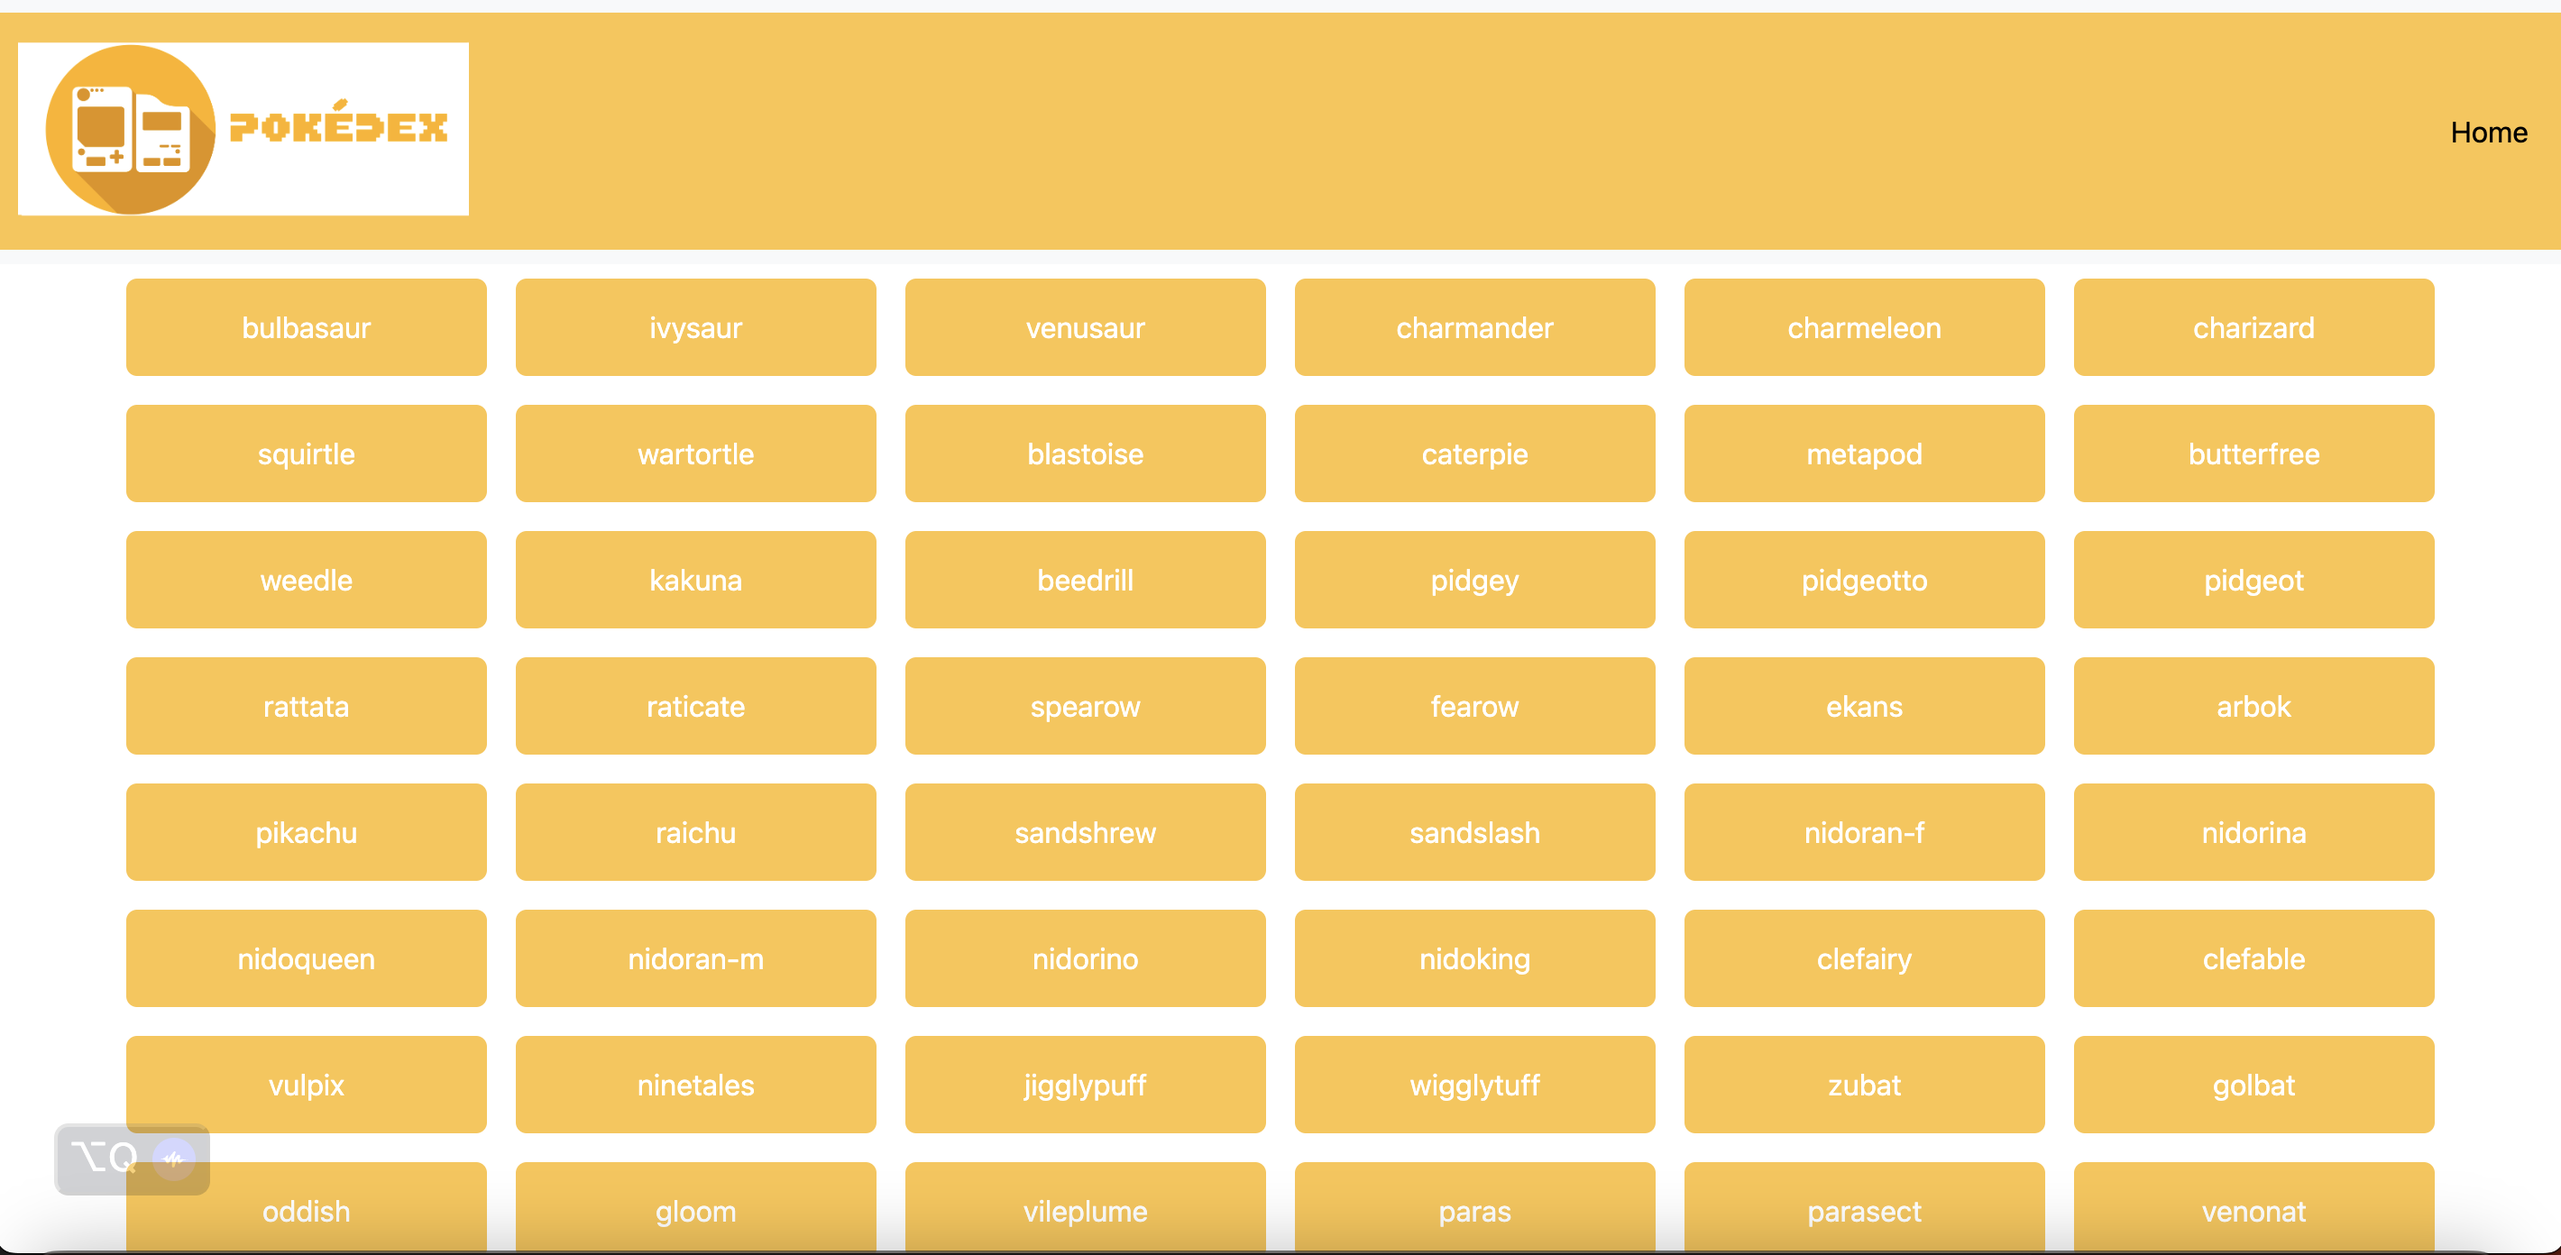
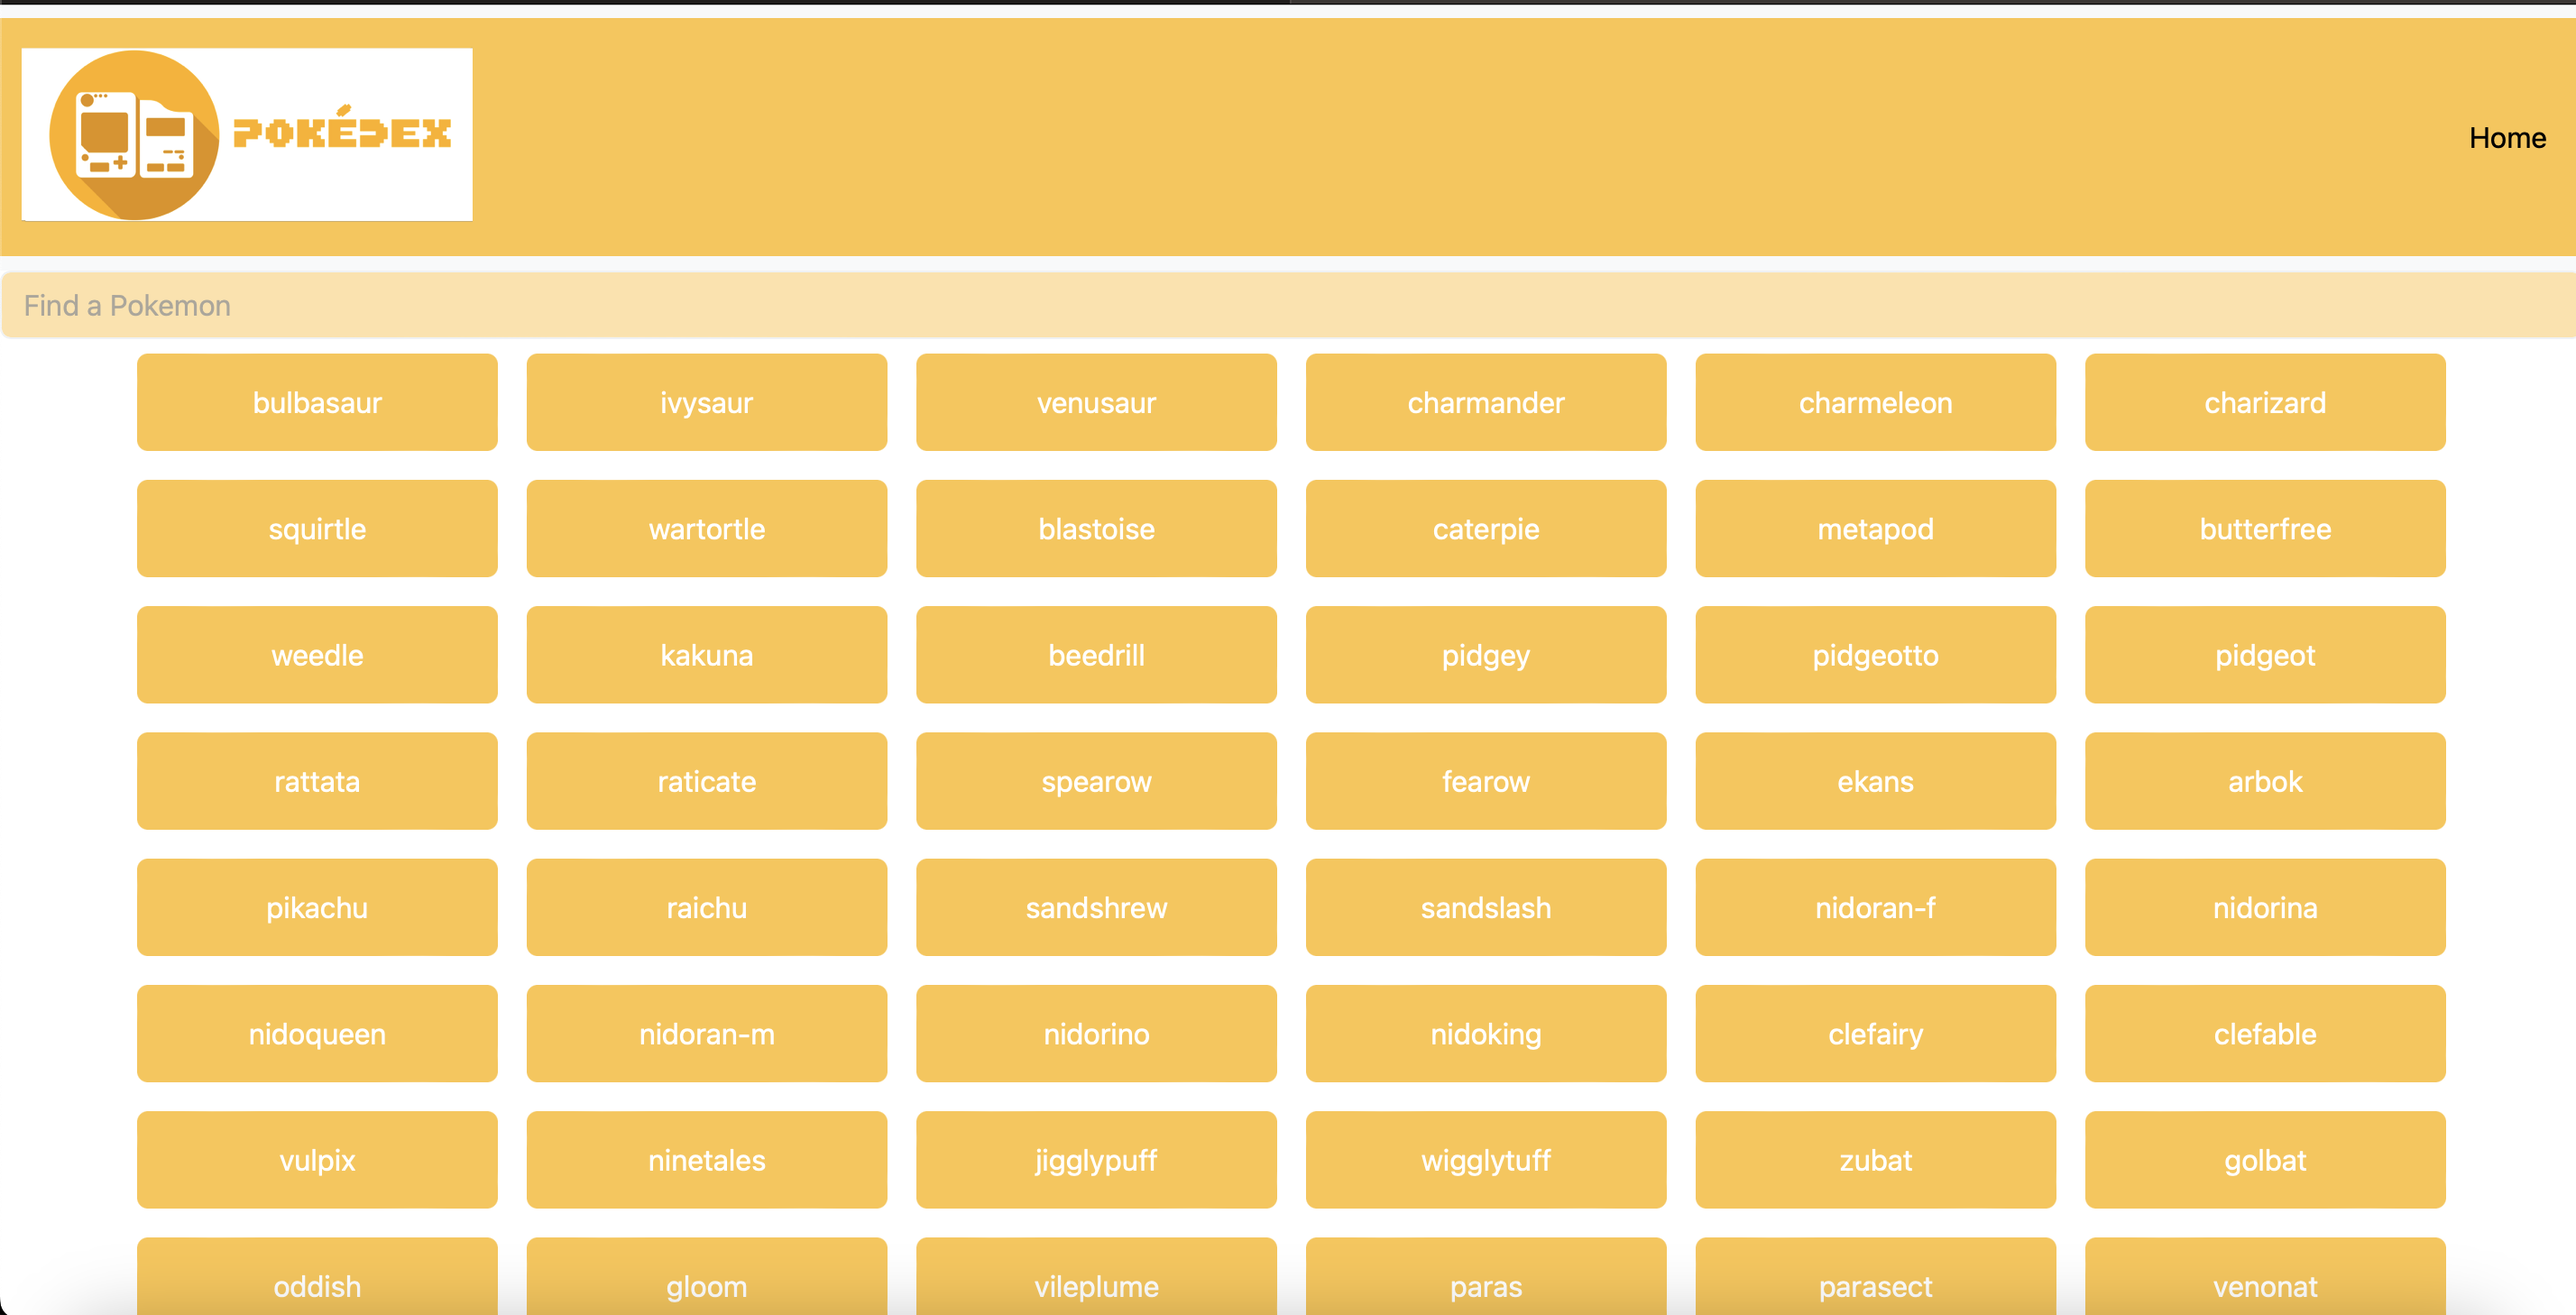
update work page

diff --git a/work.html b/work.html
@@ -452,7 +452,8 @@
               Pokedex is designed with HTML, CSS, and ES6+ JavaScript to display
               150 Pokemon retrieved from an external API. This app uses
               promises, bootstrap modals navbar, and Pokemon API to fetch and
-              display Pokemon information such as name height and picture.
+              display Pokemon information such as name height and picture. It
+              also has a search function.
             </p>
             <img
               style="height: auto; max-width: 100%"
@@ -497,9 +498,11 @@
               and their location.
             </p>
             <img
-              style="height: auto; max-width: 50%"
+              style="height: auto; max-width: 30%"
               src="img/zestfriendsImage.png"
             />
+            <img style="height: auto; max-width: 30%" src="img/zestimg.png" />
+            <img style="height: auto; max-width: 30%" src="img/zestyimg.png" />
             <br />
             <p>
               Skills: React Native, GiftedChat, Firestore Database, Firebase
